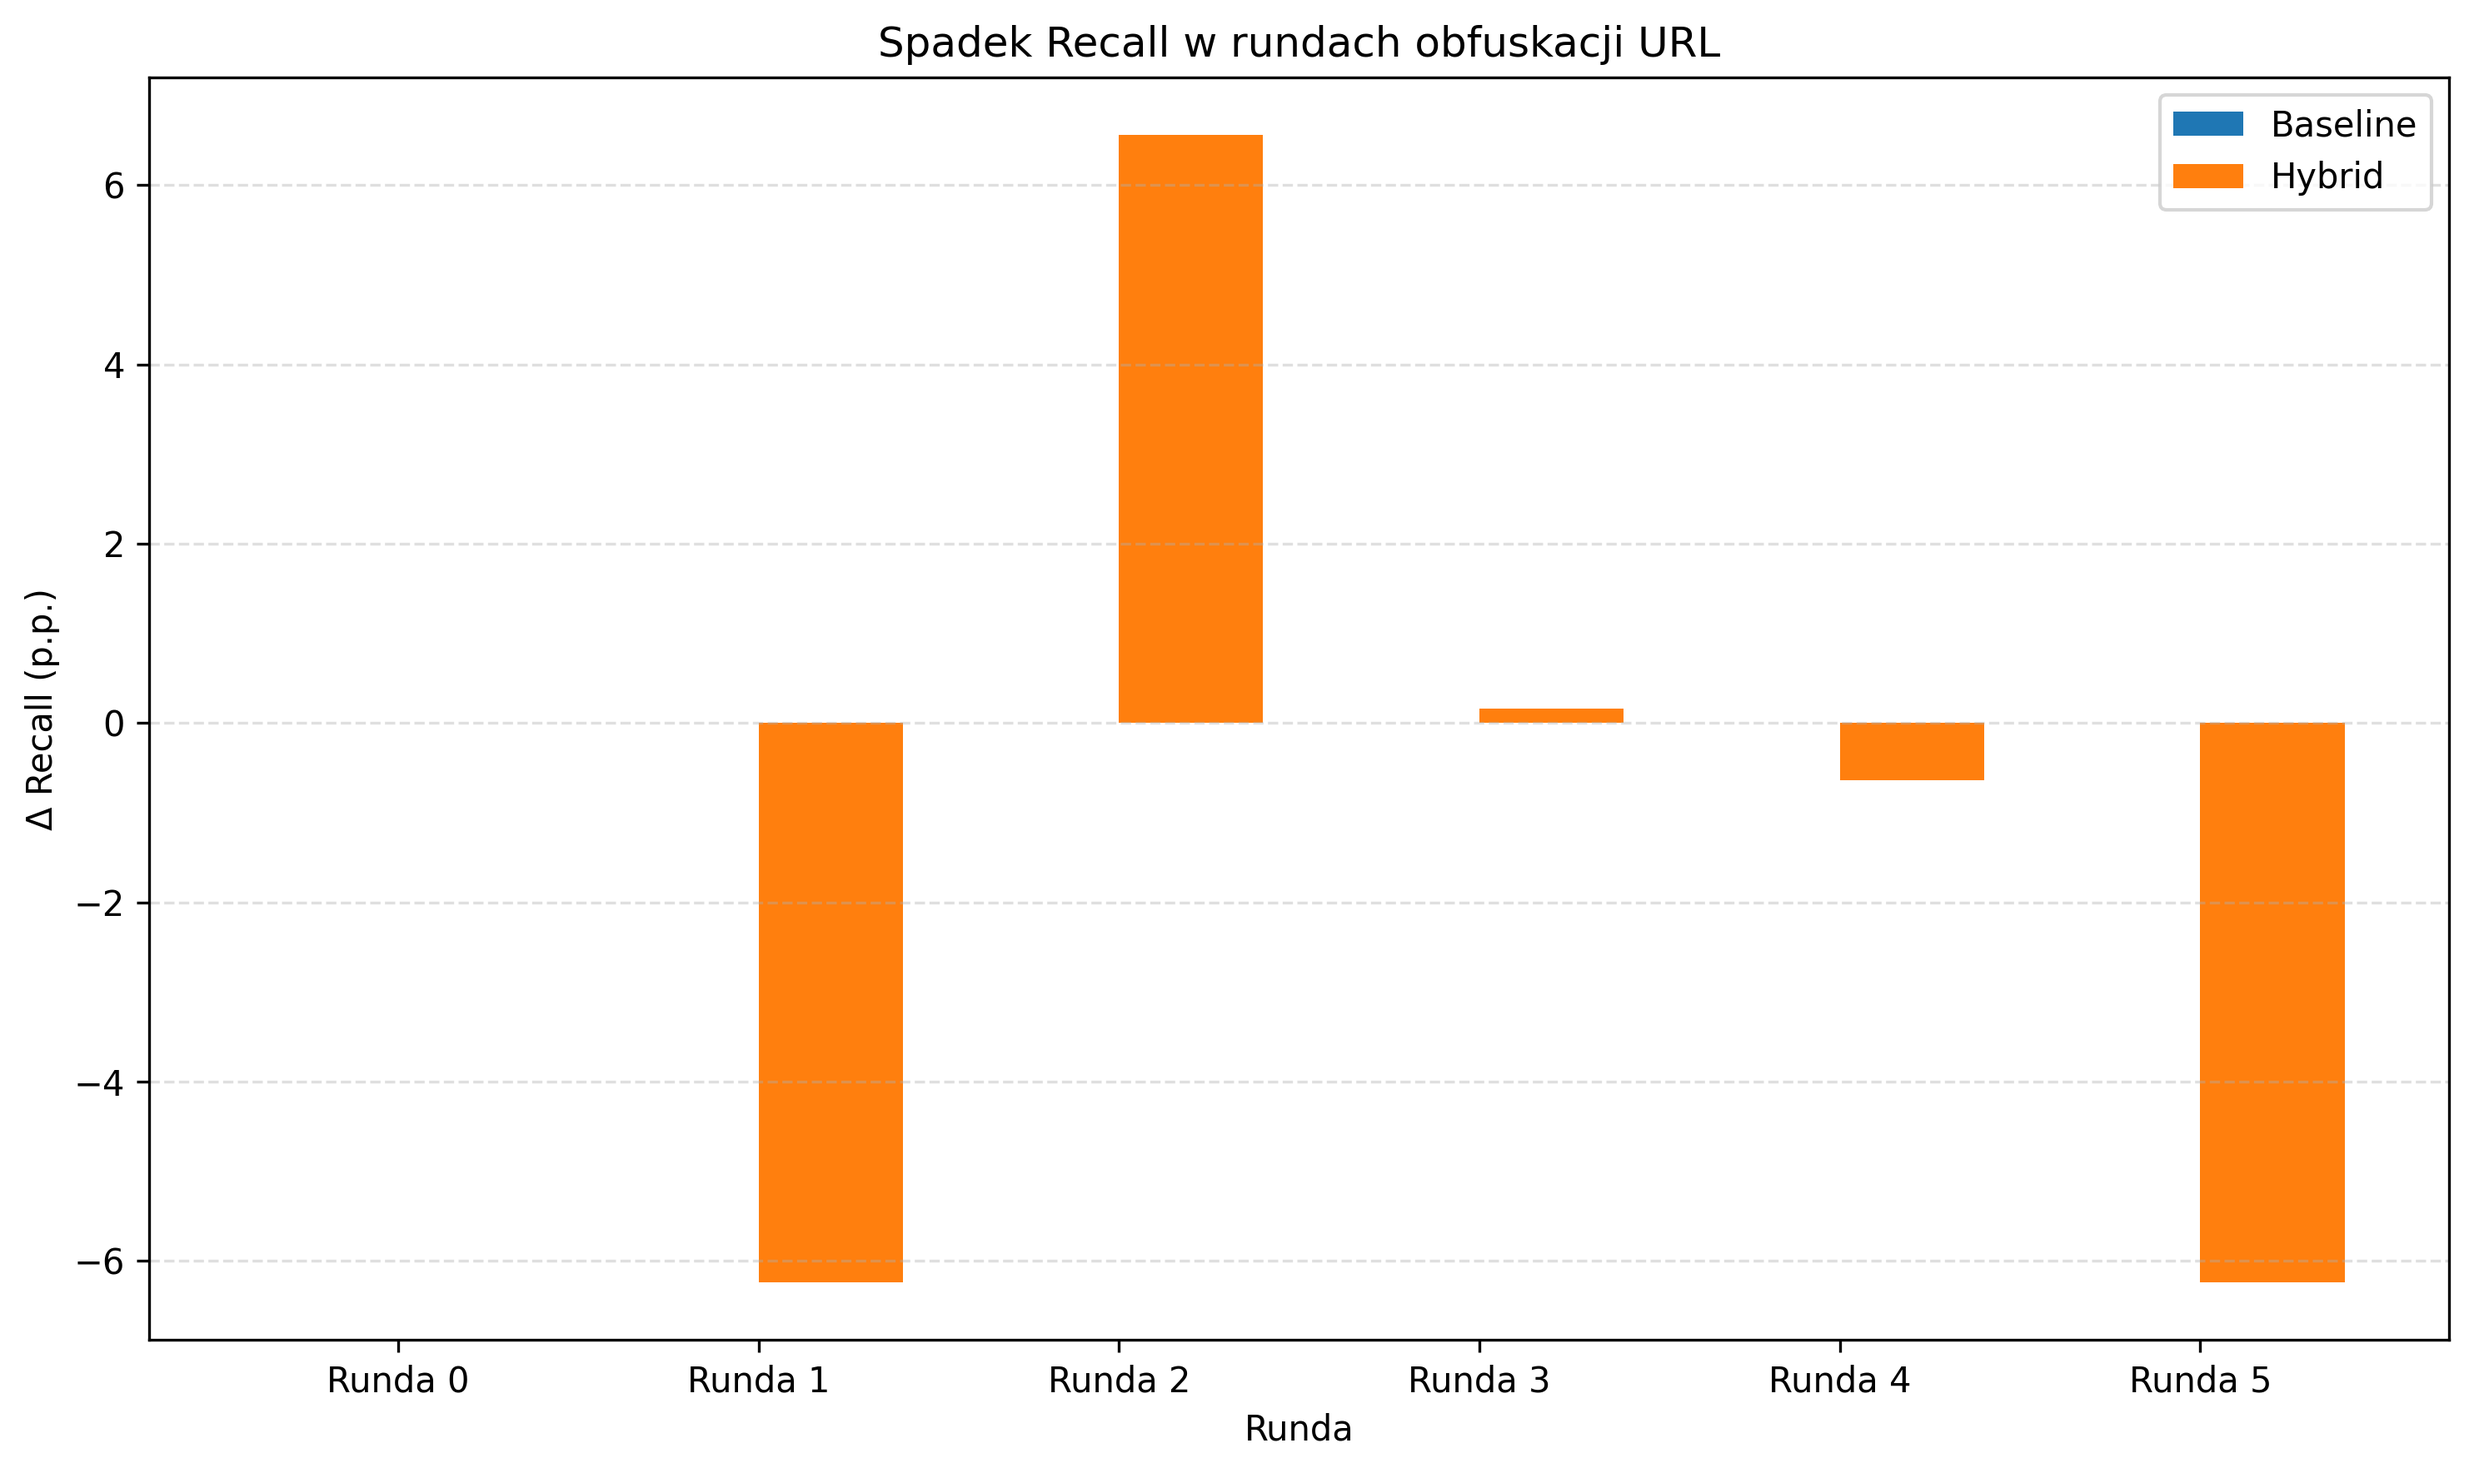
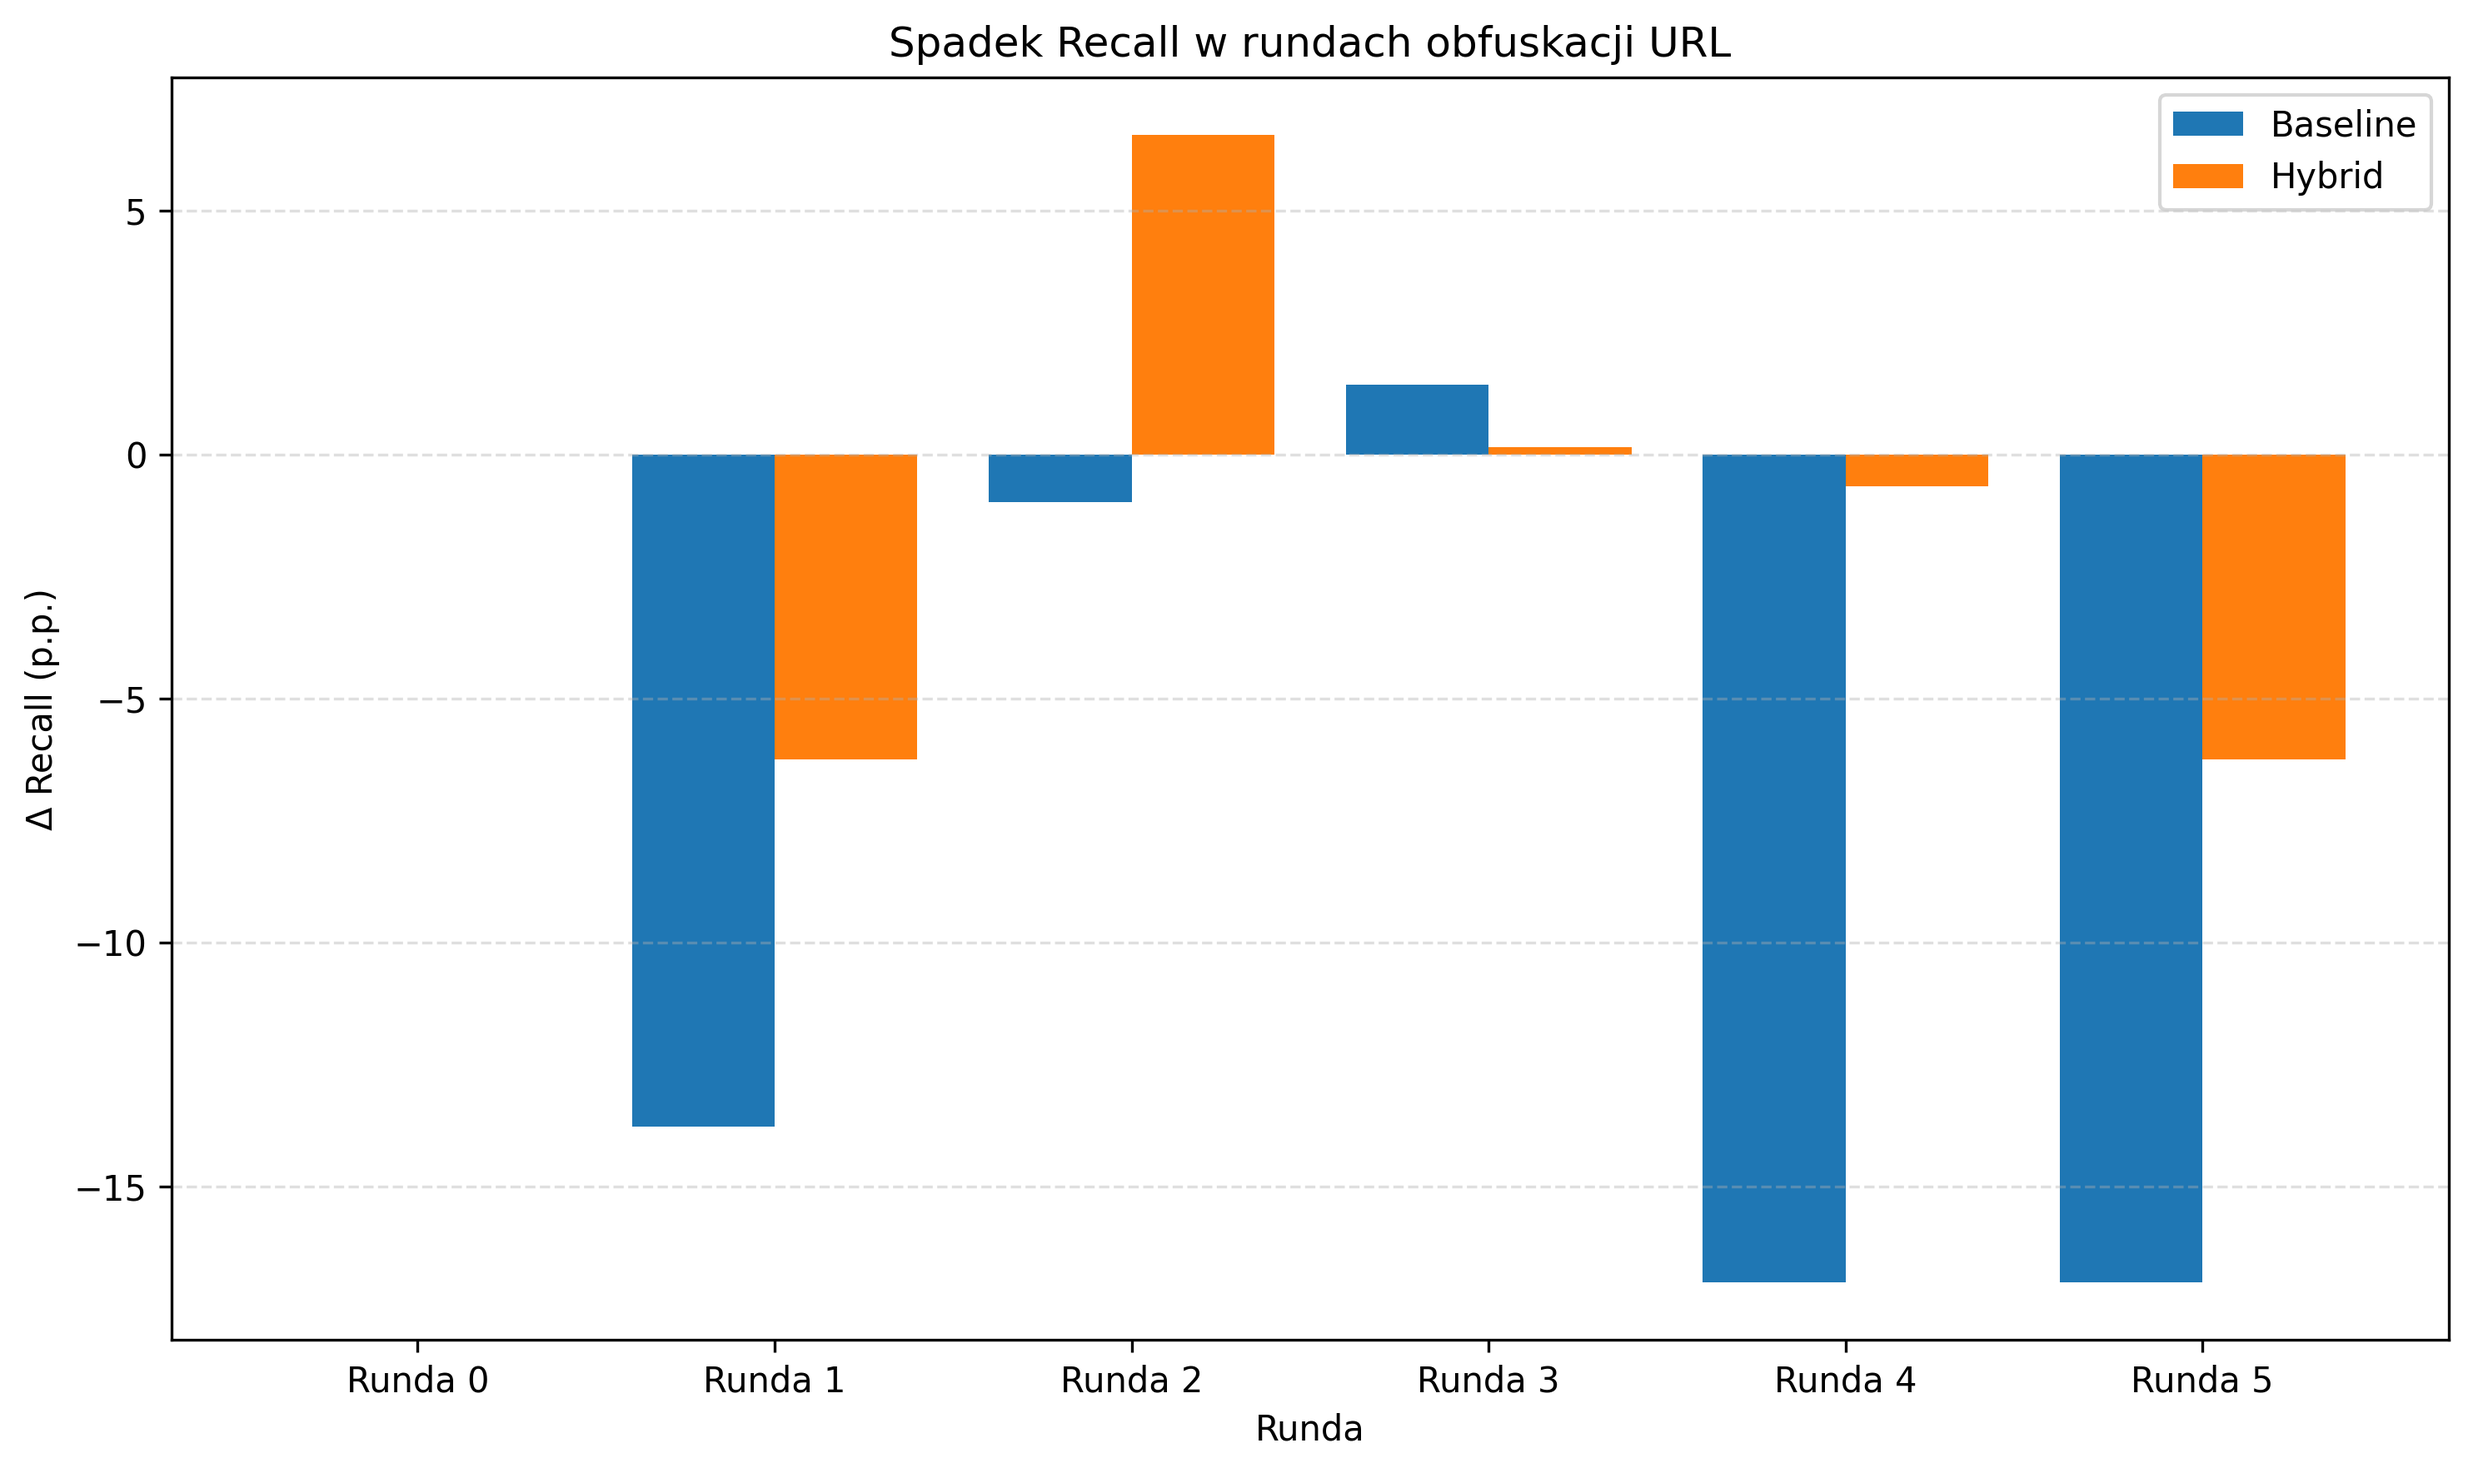
fix(red-team): apply per-model decision thresholds in evasion evaluation

diff --git a/src/red_team.py b/src/red_team.py
@@ -411,7 +411,7 @@ def evaluate_model_recall_by_round(
     dataset: pd.DataFrame,
     predictions: dict[str, Any],
     round_order: list[str] | None = None,
-    threshold: float = 0.5,
+    threshold: float | dict[str, float] = 0.5,
 ) -> pd.DataFrame:
     """Ewaluuje Recall dla modelu na rundach 0–5 obfuskacji URL.
 
@@ -419,10 +419,10 @@ def evaluate_model_recall_by_round(
         dataset: DataFrame z kolumnami URL, Label, Technique, Original_URL.
         predictions: Słownik model_name -> obiekt modelu lub callable zwracający oceny.
         round_order: Kolejność rund (np. ['round_0', 'url_encoding'] lub ['Runda 0', 'Runda 2']).
-        threshold: Próg decyzyjny dla predykcji binarnej (0/1).
+        threshold: Próg decyzyjny (pojedynczy float lub słownik model_name -> float).
 
     Returns:
-        DataFrame z kolumnami: Model, Round, Technique, Recall, Delta_Recall_pp.
+        DataFrame z kolumnami: Model, Round, Technique, Recall, Delta_Recall_pp, Baseline_Recall.
     """
     if "URL" not in dataset.columns or "Label" not in dataset.columns:
         raise ValueError("Dataset musi zawierać kolumny 'URL' i 'Label'.")
@@ -455,7 +455,28 @@ def evaluate_model_recall_by_round(
             )
         return str(round_label), None
 
+    def _resolve_model_threshold(model_name: str, model_obj: Any) -> float:
+        if isinstance(threshold, dict):
+            if model_name in threshold:
+                return float(threshold[model_name])
+            for k, v in threshold.items():
+                if k.lower() == model_name.lower():
+                    return float(v)
+            return 0.5
+        # Jeśli przekazano ujemny próg (np. z decision_function SVM), a model zwraca
+        # wyłącznie prawdopodobieństwa predict_proba w [0, 1] (np. MultinomialNB),
+        # używamy natywnego progu prawdopodobieństwa 0.5.
+        if (
+            float(threshold) < 0.0
+            and not callable(model_obj)
+            and not hasattr(model_obj, "decision_function")
+            and hasattr(model_obj, "predict_proba")
+        ):
+            return 0.5
+        return float(threshold)
+
     for model_name, model in predictions.items():
+        model_threshold = _resolve_model_threshold(model_name, model)
         baseline_recall = None
         for round_label in ordered_rounds:
             round_name, technique_name = resolve_round_reference(round_label)
@@ -482,7 +503,7 @@ def evaluate_model_recall_by_round(
             if not urls:
                 recall_value = 0.0
             else:
-                predictions_array = _as_binary_predictions(model, urls, threshold)
+                predictions_array = _as_binary_predictions(model, urls, model_threshold)
                 recall_value = float(recall_score(labels, predictions_array, zero_division=0.0))
 
             if baseline_recall is None:
@@ -518,7 +539,7 @@ def export_red_team_results(
     model_predictions: dict[str, Any],
     csv_path: str | Path = DEFAULT_EVAL_RESULTS_FILE,
     figure_path: str | Path = DEFAULT_EVAL_FIGURE_FILE,
-    threshold: float = 0.5,
+    threshold: float | dict[str, float] = 0.5,
 ) -> pd.DataFrame:
     """Eksportuje wynik ewaluacji red-team do CSV i rysuje wykres spadku Recall."""
     result = evaluate_model_recall_by_round(
@@ -582,7 +603,7 @@ def evaluate_red_team_models(
         raise FileNotFoundError(f"Nie znaleziono modelu hybrydowego: {hybrid_model_path}")
 
     with open(threshold_path, encoding="utf-8") as file:
-        threshold = float(json.load(file)["threshold"])
+        hybrid_threshold = float(json.load(file)["threshold"])
 
     baseline_model = joblib.load(Path(baseline_model_path))
     hybrid_model = joblib.load(Path(hybrid_model_path))
@@ -594,7 +615,7 @@ def evaluate_red_team_models(
         },
         csv_path=results_path,
         figure_path=figure_path,
-        threshold=threshold,
+        threshold={"Baseline": 0.5, "Hybrid": hybrid_threshold},
     )
 
 
